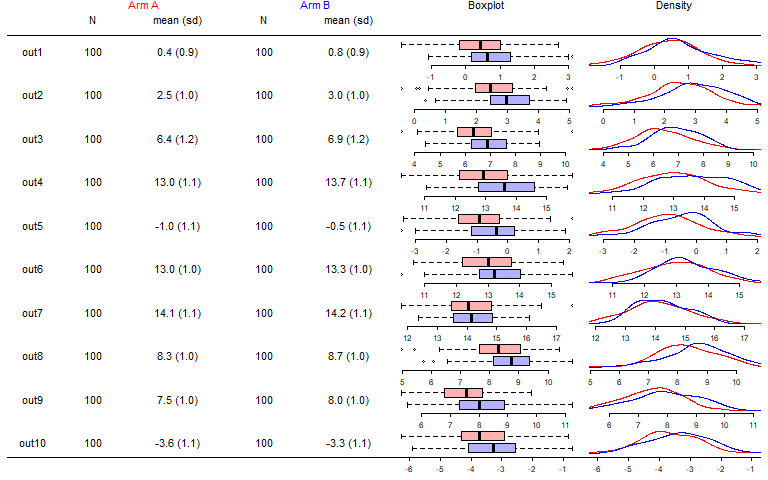
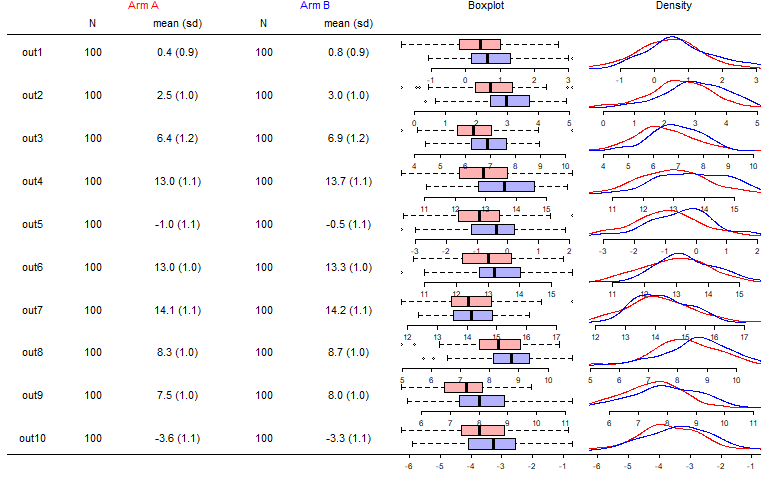
add option to drop individual headers and footers in combinefobj

diff --git a/README.md b/README.md
@@ -813,7 +813,7 @@ cfobj$setup
 #> [1] 0.200 0.200 1.000 0.200 0.200 1.000 0.200 0.028
 #> 
 #> $iheadfoot
-#> [1] TRUE
+#> [1] TRUE TRUE
 ```
 
 The **cfobj** can be plotted using the same plot function:
@@ -827,7 +827,10 @@ plotfobj(fobj = cfobj)
 
 Combining plots can also be used to get different scaling for the plots
 of the individual variables. Assume we would like to present a number of
-differently scaled continuous variables with boxplots and densities:
+differently scaled continuous variables with boxplots and densities.
+Note that we removed the headers of the indiviual fobj but kept the
+footer (to have space for the axes) by setting *ikeepheadfoot* to
+c(FALSE, TRUE).
 
 ``` r
 set.seed(1)
@@ -857,8 +860,9 @@ for (i in 1:length(fobj)) {
     fobji<-d_axis(fobji, cex.axis=0.8, mgp=c(0,0.3,0), tck=-0.1)
     
     #remove individual headers
-    fobji$header<-NULL
-        
+    #fobji$header<-NULL
+    
+    #gridlines on first and last fobj
     if (i==1) {
         fobji<-gridlines(fobji, h=fobji$setup$ylim[2])
     }
@@ -873,7 +877,7 @@ for (i in 1:length(fobj)) {
 cfobj<-combinefobj(fobj)
 
 #combine and add overall header
-cfobj<-combinefobj(fobj) |>
+cfobj<-combinefobj(fobj, keepiheadfoot = c(FALSE, TRUE)) |>
   header(hlayout = c(1,2,2,3,3,4,5,6), headernr = 1,
         labels=c("","Arm A","Arm B","Boxplot","","Density"),
         col = c(1,"red","blue",1,1), y = 0.9) |>
@@ -881,7 +885,7 @@ cfobj<-combinefobj(fobj) |>
             labels=c("","N","mean (sd)","N","mean (sd)","","",""),
             col = 1, y = 0.35)
         
-#adapt top header and bottom footer
+#adapt overall header and footer
 cfobj$setup$lheights[1]<-1
 cfobj$setup$lheights[length(cfobj$setup$lheights)]<-0.5
 
@@ -921,7 +925,7 @@ part of the plot.
 
 Note that there are no individual headers and footers for this 6
 **fobj**, which is the case if they are combined directly via
-`combinefobj`.
+`combinefobj` (unless option *keepiheadfoot* is set to FALSE).
 
 The overall header can be accessed via the `header` function in the same
 way as for an individual `fobj`.

diff --git a/NEWS.md b/NEWS.md
@@ -1,3 +1,7 @@
+forplot 3.0.1
+------------------
+add option to drop individual headers and footers in combinefobj
+
 forplot 3.0.0
 ------------------
 add combinefobj to combine fobj
